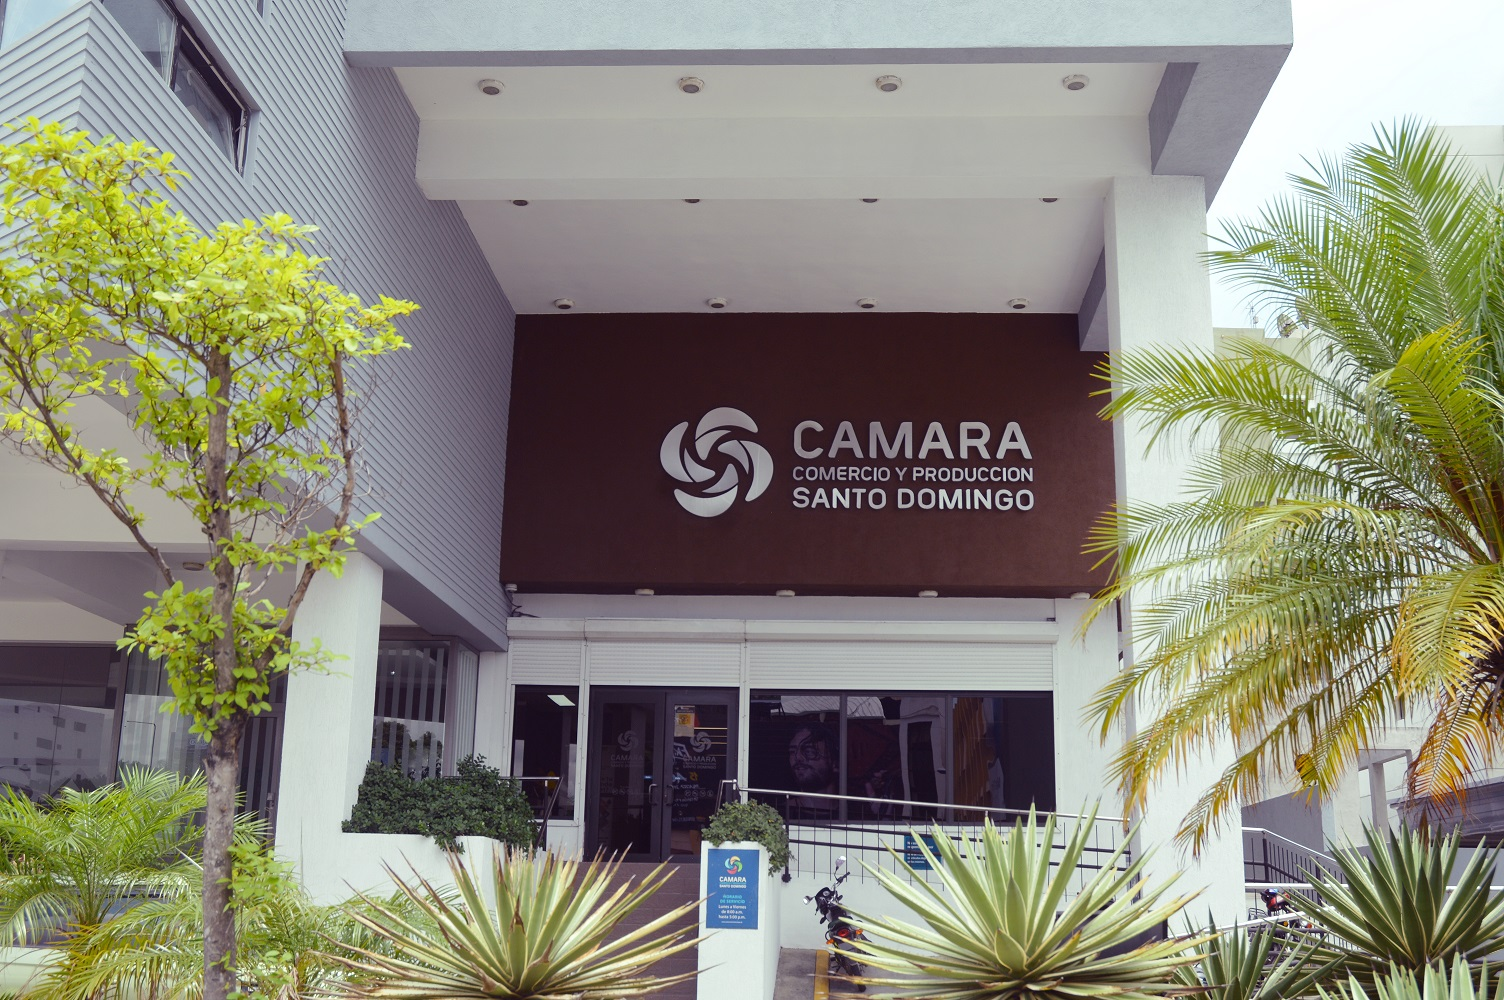
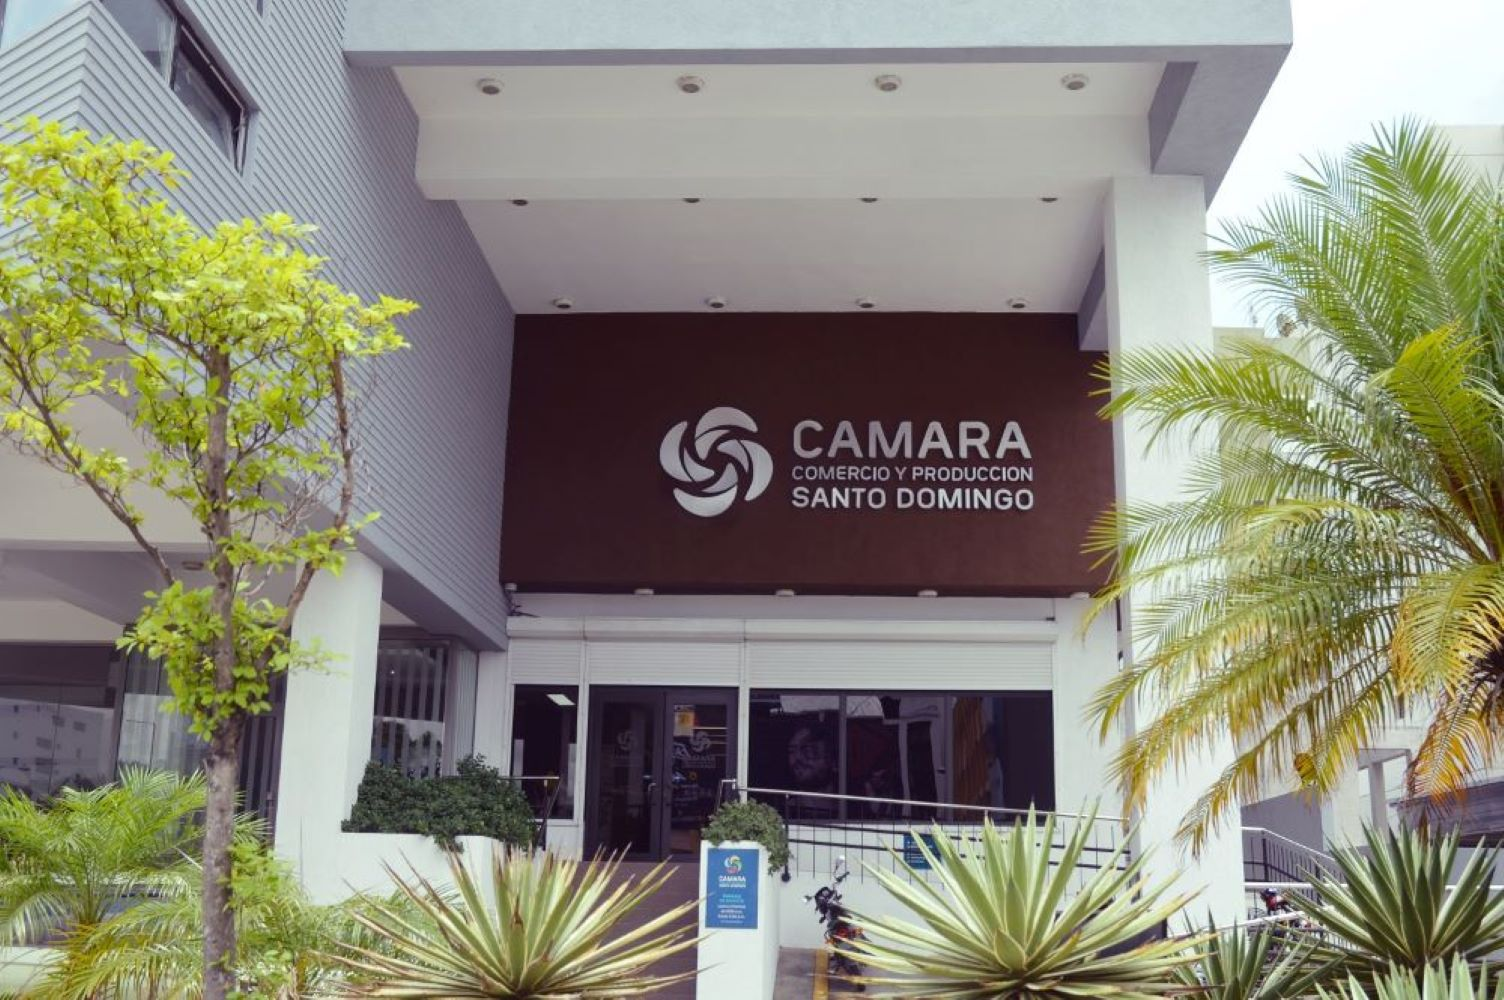
update chamber

diff --git a/chamber/index.html b/chamber/index.html
@@ -36,7 +36,7 @@
     </header>
     <main>
         <section class="hero">
-            <img src="images/Fachada-Camara-de-Comercio.jpg" alt="Hero image">
+            <img src="images/hero-image-1.jpg" alt="Hero image">
             <h2><a href="#chamber.html" class="active">Join the Chamber</a></h2>
         </section>
         <section class="events">

diff --git a/chamber/styles/base.css b/chamber/styles/base.css
@@ -61,13 +61,16 @@ footer img {
     top: 20%;
     left: 50%;
     transform: translate(-50%, -50%);
+    background-color: #042f2f;
     color: #ffffff;
     font-size: 2rem;
 }
 
-.hero img {
-    max-width: 100%;
+.active {
+    
 }
+
+
 
 h1 {
     /*font-weight: 100;*/
